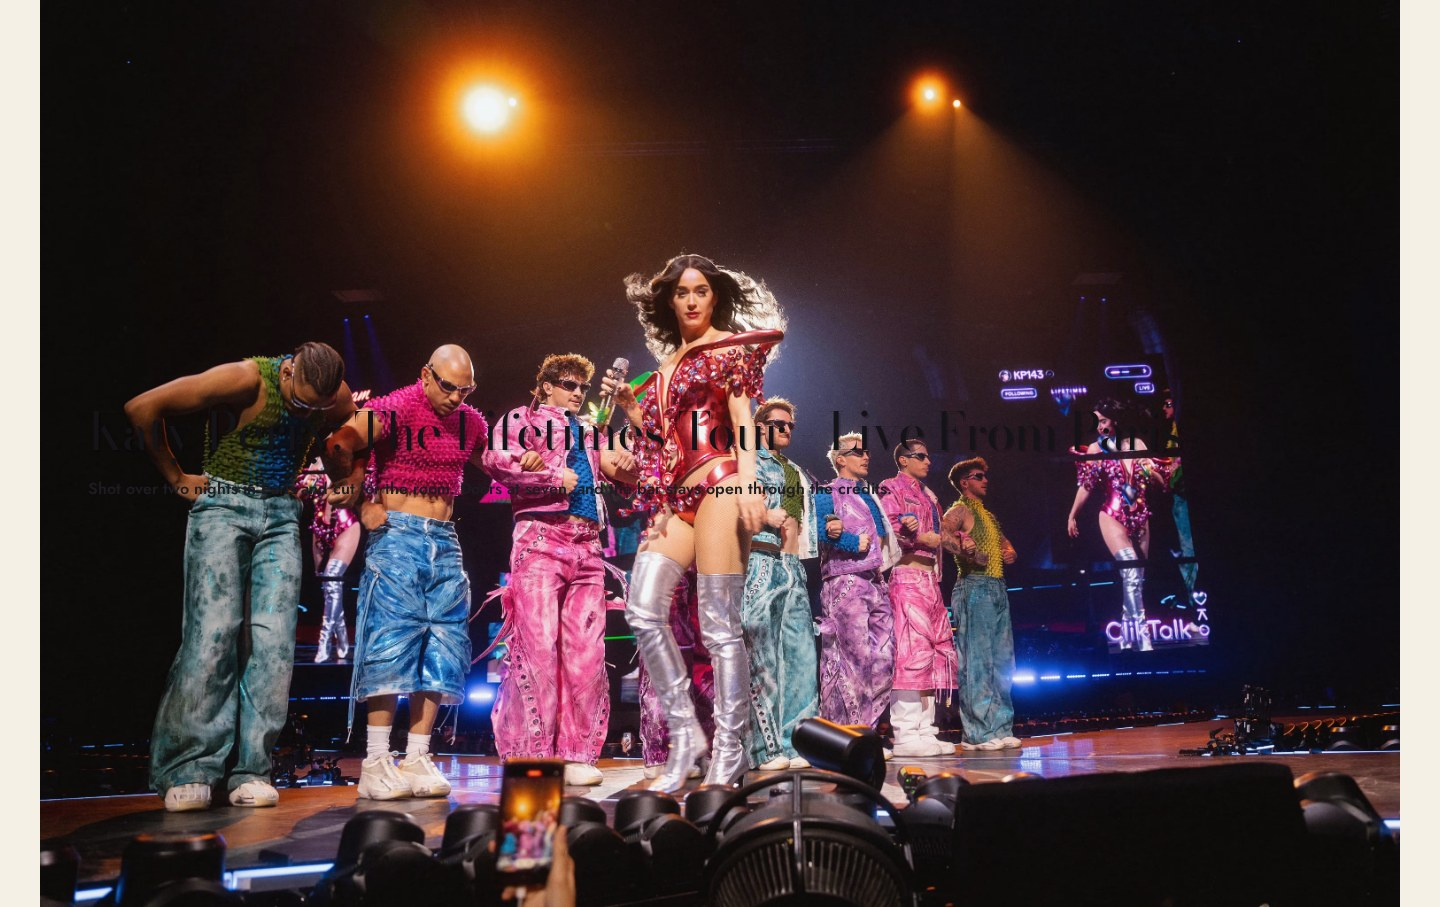
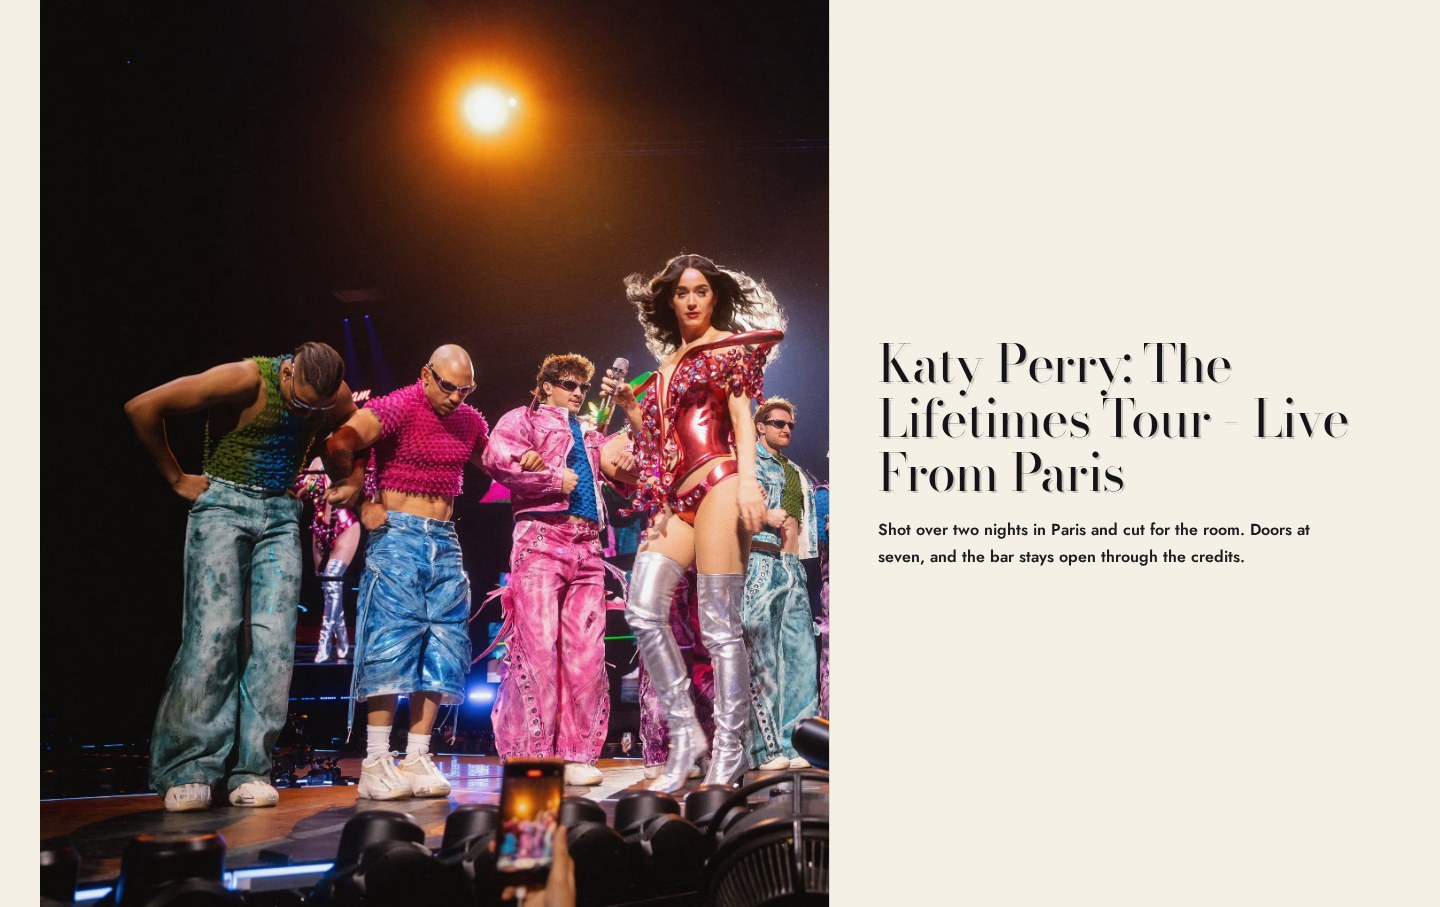
Fix Now Playing and Hero B screenshots; deploy to GitHub Pages
The INDY test site has no scheduled showings, so every Now Playing section
captured as "Nothing Scheduled". The capture now answers the two showtimes
GraphQL queries from scripts/fixtures/showtimes.mjs (five fictional films with
generated posters, in the circuit's Pacific zone) so the screenshots show a
real programme.

Hero B's custom CSS styles its note panel on .absolute-full while the carousel
renders .absolute-left, so the title floated over the photo. SELECTOR_FIXES in
capture.mjs clones the live rules onto the right selector until the CSS is
fixed in INDY admin.

Add .nojekyll and netlify.toml for static hosting, and the live URL to the
README.

diff --git a/README.md b/README.md
@@ -8,6 +8,8 @@ find us, membership, gift cards, footer) shows a screenshot taken from one of
 the INDY example variants. Cycle through the styles, reorder or remove
 sections, add notes, and export.
 
+Live: https://irgendjemandkeinkorper.github.io/fd-template-picker/
+
 ## Run it
 
 ```
@@ -71,3 +73,18 @@ npm run capture
 rewrites `screenshots/` and `catalog.json`. To add a variant or a new section,
 edit `SLOTS` and `VARIANTS` at the top of that script. The script fails loudly
 if a variant's section count no longer matches what is listed there.
+
+Two things are patched in the browser during capture, because the test site
+does not render them as designed:
+
+- **Now Playing is fed sample showtimes.** The test site has nothing scheduled,
+  so its Now Playing sections would show "Nothing Scheduled". The two showtimes
+  GraphQL queries are answered from `scripts/fixtures/showtimes.mjs` (five
+  fictional films with generated posters, rendered in the circuit's Pacific
+  time zone). Edit `FILMS` there to change the programme. The live site keeps
+  showing the empty state until showtimes are added in INDY admin.
+- **Hero B's custom CSS targets the wrong class.** It styles the note panel on
+  `.absolute-full`, but the carousel renders that wrapper as `.absolute-left`,
+  so on the live site the title floats over the photo. `SELECTOR_FIXES` in
+  `scripts/capture.mjs` clones those rules onto the right selector. Fix the CSS
+  in INDY admin, then remove the entry; a stale entry fails the run.
